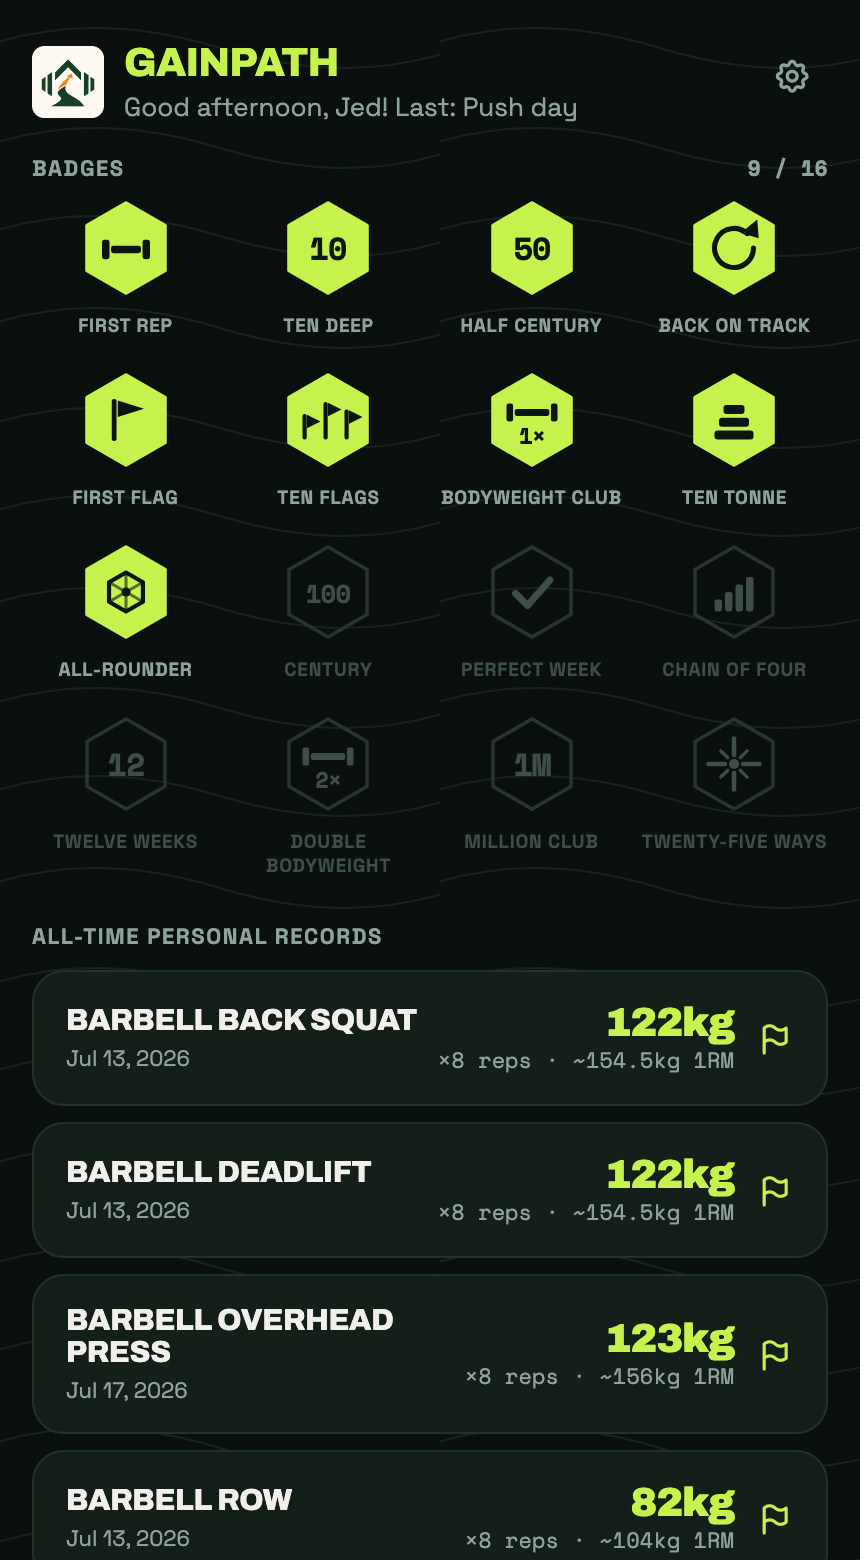
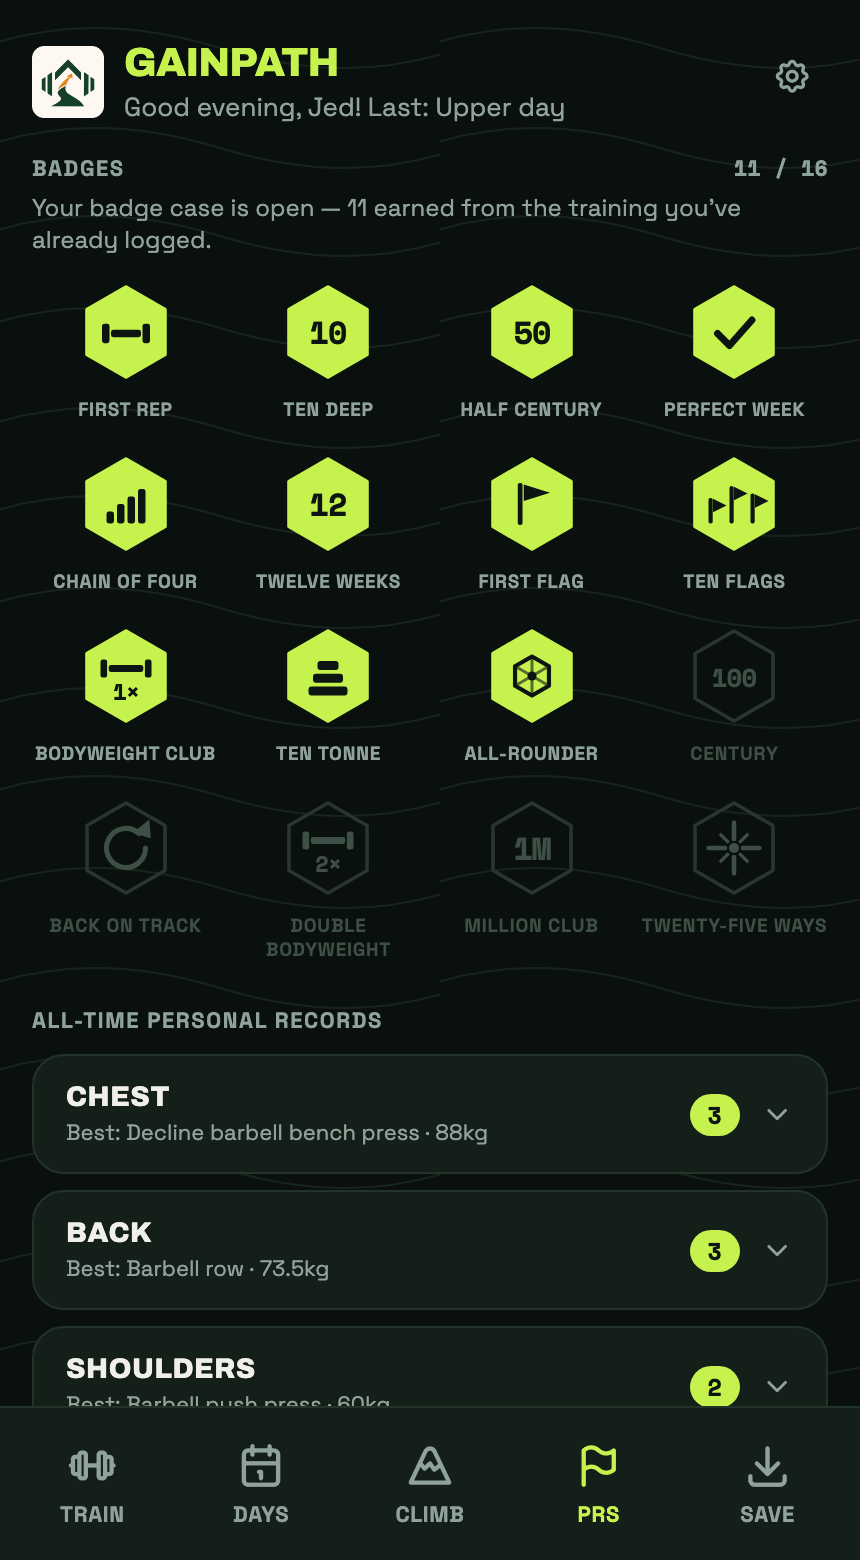
Group the all-time PR list by muscle part (v2.3.0)
The PRs tab rendered every personal record as one flat alphabetical list
of cards. With 221 built-in exercises that list is long enough to be
unreadable — finding a squat PR meant scrolling past every chest lift
first, and the tab ran several screens deep with no structure.

Records are now bucketed by each exercise's `mg` and rendered in
`MG_LIST` order (chest -> back -> shoulders -> arms -> legs -> core),
matching how the rest of the app orders body parts. Each muscle is a
collapsible header showing its record count and heaviest lift, and starts
collapsed, so the whole tab fits on one screen again. Opening a section
renders the same PR cards as before, with the same tap-through to each
record's timeline.

- `renderPRs()`'s per-record card markup is extracted unchanged into a
  new `prCard()` helper — an individual card is pixel-identical to v2.2.0
- Open/closed state lives in `ST.prOpenMG`, so it survives navigating
  away and back within a session
- Records whose muscle group can't be resolved (a deleted custom exercise
  still referenced by history) fall into an "Other" section after the
  known groups, so grouping can never hide a record
- Uses `ti-chevron-down`/`ti-chevron-up`, both already in the self-hosted
  Tabler subset — no re-subsetting needed; verified the glyphs actually
  render rather than trusting the class names
- `CACHE_NAME` -> `gainpath-v30`; `WHATS_NEW_VERSION` -> 2.3.0 with
  rewritten items in all three languages; `badges.png` regenerated to
[…]

diff --git a/index.html b/index.html
@@ -88,6 +88,12 @@ h2,label,.bdg,.streak-hero-lbl,.streak-hero-cta{font-family:inherit;letter-spaci
 .tn,.sv,.wi,.ri,.streak-hero-num,#wo-el,#plate-target,input[type=number]{font-family:var(--font-display);font-weight:600;font-variant-numeric:tabular-nums}
 .pr-stamp{display:flex;align-items:center;gap:8px;background:var(--tint-gold-1);border:1.5px solid var(--brand-forge);border-radius:8px;padding:12px 16px;margin-bottom:8px;font-size:13px;font-weight:700;color:var(--forge-text);transform:rotate(-1.5deg);animation:pr-stamp .18s ease-out}
 .card{background:var(--bg);border:1px solid var(--bdr);border-radius:var(--radius);padding:16px 16px;margin-bottom:10px;box-shadow:var(--shadow-sm)}
+.pr-grp{display:flex;align-items:center;gap:10px;width:100%;background:var(--bg);border:1px solid var(--bdr);border-radius:16px;padding:13px 16px;margin-bottom:8px;cursor:pointer;box-shadow:var(--shadow-sm);transition:border-color .15s}
+.pr-grp:hover,.pr-grp.on{border-color:var(--accent)}
+.pr-grp-t{font-family:var(--font-display);font-size:14px;font-weight:800;text-transform:uppercase;letter-spacing:.02em;color:var(--txt)}
+.pr-grp-s{font-size:11px;color:var(--txt2);margin-top:3px;overflow:hidden;text-overflow:ellipsis;white-space:nowrap}
+.pr-grp-n{font-family:var(--font-mono);font-size:12px;font-weight:700;color:var(--accent-ink);background:var(--accent);border-radius:999px;padding:2px 9px;flex-shrink:0}
+.pr-grp-body{padding-left:10px;border-left:2px solid var(--bdr);margin:0 0 14px 6px}
 .ex-img{display:block;width:100%;height:auto;border-radius:10px;margin-bottom:12px;background:var(--bg2)}
 .cal-wrap{background:var(--bg);border:1px solid var(--bdr);border-radius:var(--radius);padding:12px 16px;box-shadow:var(--shadow-sm)}
 .cal-head{display:flex;align-items:center;justify-content:space-between;margin-bottom:8px}
@@ -1234,7 +1240,7 @@ if(window.emailjs)emailjs.init(EMAILJS_PUBLIC_KEY);
 // Privacy-first, aggregate-only usage analytics — see analytics-worker/README.md.
 // gp_anon_id is a random client-generated ID, never tied to a real identity.
 // Replace with the deployed Worker URL; track() is a no-op until it's set.
-const APP_VERSION='2.2.0';
+const APP_VERSION='2.3.0';
 const ANALYTICS_ENDPOINT='https://gainpath-analytics.jedmangubat.workers.dev';
 function getAnonId(){
   let id=localStorage.getItem('gp_anon_id');
@@ -1261,8 +1267,8 @@ function track(event){
 // on a release that ships user-facing news. A bug-fix-only release leaves it
 // alone, so upgraders correctly see no sheet at all instead of last version's
 // announcement re-headed with the new number. ═══
-const WHATS_NEW_VERSION='2.2.0';
-const WHATS_NEW_ITEMS=['whatsnew_item1','whatsnew_item2','whatsnew_item3'];
+const WHATS_NEW_VERSION='2.3.0';
+const WHATS_NEW_ITEMS=['whatsnew_item1','whatsnew_item2'];
 // -1 / 0 / 1 — segment-wise numeric compare, tolerant of the legacy '0' default.
 function cmpVer(a,b){
   const x=String(a||'0').split('.').map(Number),y=String(b||'0').split('.').map(Number);
@@ -13078,7 +13084,7 @@ let CFG={name:'',firstName:'',lastName:'',lang:'en',sex:'male',bw:75,ht:175,bf:n
   lastSeenVersion:'0',tutorialSeen:false,badgesIntroSeen:false,
   exportedAtHistoryLen:0,backupNudgeDismissedAtLen:0,
   deloadDismissedAtLen:-99};
-let ST={day:null,exi:0,sd:[],rt:null,rs:90,restTotal:90,et:null,es:0,t0:null,paused:false,history:[],prs:{},badges:{},mw:{},chart:null,pendingRec:null,mwQueue:[],mwCurrent:null,fswPending:false,restEnd:null,restInfo:null,rFbHtml:null,rNxHtml:null,editDay:null,editList:[],swapIdx:null,swapPart:null,swapSearch:'',editMid:false,editIncludeCurrent:false,plateIdx:null,bw:[],bwChart:null,feelQueue:[],feelTarget:null,ssGroupEnd:null,editProg:false,progDraft:null,restRated:false,calMonth:null};
+let ST={day:null,exi:0,sd:[],rt:null,rs:90,restTotal:90,et:null,es:0,t0:null,paused:false,history:[],prs:{},badges:{},mw:{},chart:null,pendingRec:null,mwQueue:[],mwCurrent:null,fswPending:false,restEnd:null,restInfo:null,rFbHtml:null,rNxHtml:null,editDay:null,editList:[],swapIdx:null,swapPart:null,swapSearch:'',prOpenMG:{},editMid:false,editIncludeCurrent:false,plateIdx:null,bw:[],bwChart:null,feelQueue:[],feelTarget:null,ssGroupEnd:null,editProg:false,progDraft:null,restRated:false,calMonth:null};
 let HOLD_TIMER=null,HOLD_START=null,HOLD_IDX=null,HOLD_TARGET=null,HOLD_ALERTED=false,DE_EXPANDED=null;
 function startHoldTimerInterval(i){
   HOLD_TIMER=setInterval(()=>{
@@ -13324,9 +13330,8 @@ en:{
 "tut11_body": "Settings is where you tell GainPath which plates/dumbbells you have, connect Apple Watch and send feedback. No account needed, ever.",
 "whatsnew_heading": "What's new in",
 "btn_got_it": "Got it",
-"whatsnew_item1": "102 new exercises, more than doubling the library to 221. Every one comes with its own illustrated three-panel guide, form cues and step-by-step instructions.",
-"whatsnew_item2": "They're all in the substitution pool, so when you swap an exercise you now get far more options that actually train the same muscle.",
-"whatsnew_item3": "New ground covered too — glutes, calves, abductors and core got the biggest additions, including bodyweight and machine alternatives for when the gym is busy.",
+"whatsnew_item1": "Your all-time personal records are now grouped by muscle instead of one long alphabetical list. Each section shows how many records you hold there and your heaviest lift for that muscle.",
+"whatsnew_item2": "Tap a muscle to open it and see every record underneath. Sections start closed, so the whole PRs tab fits on one screen again.",
 "message_label": "Message",
 "metric_e1rm": "Estimated 1RM",
 "metric_max_weight": "Max weight",
@@ -13399,6 +13404,7 @@ en:{
 "plate_calc_title": "Plate calculator",
 "plates_owned_label": "Plates owned (<span id=\"set-gym-unit1\">kg</span>, per pair)",
 "pr_alltime_title": "All-time personal records",
+"pr_group_top": "Best:",
 "badges_title": "Badges",
 "badges_intro": "Your badge case is open — {n} earned from the training you've already logged.",
 "badge_unlocked": "Badge unlocked",
@@ -13683,9 +13689,8 @@ ja:{
 "tut11_body": "設定では持っているプレートやダンベルの登録、Apple Watch連携、フィードバック送信ができます。アカウントは一切不要です。",
 "whatsnew_heading": "アップデート情報",
 "btn_got_it": "了解",
-"whatsnew_item1": "102種目の新エクササイズを追加し、ライブラリは221種目に倍増しました。すべてに3コマのイラスト解説、フォームのコツ、手順が付いています。",
-"whatsnew_item2": "いずれも種目変更の候補に入るので、入れ替えるときに同じ筋肉を鍛えられる選択肢が大幅に増えました。",
-"whatsnew_item3": "対象部位も拡充 —— 特にお尻・ふくらはぎ・股関節・体幹が充実し、ジムが混雑しているときの自重・マシン代替種目も加わりました。",
+"whatsnew_item1": "歴代の自己記録が、長いアルファベット順の一覧ではなく部位ごとにまとまりました。各セクションには記録数とその部位の最高重量が表示されます。",
+"whatsnew_item2": "部位をタップすると、その中のすべての記録が開きます。初期状態は閉じているので、自己記録タブが再び1画面に収まります。",
 "message_label": "メッセージ",
 "metric_e1rm": "推定1RM",
 "metric_max_weight": "最大重量",
@@ -13758,6 +13763,7 @@ ja:{
 "plate_calc_title": "プレート計算機",
 "plates_owned_label": "所有プレート (<span id=\"set-gym-unit1\">kg</span>、1組あたり)",
 "pr_alltime_title": "歴代の自己記録",
+"pr_group_top": "最高:",
 "badges_title": "バッジ",
 "badges_intro": "バッジコレクションを開きました — これまでの記録から{n}個を獲得しています。",
 "badge_unlocked": "バッジ獲得",
@@ -14043,9 +14049,8 @@ ko:{
 "tut11_body": "설정에서 보유한 플레이트/덤벨 등록, Apple Watch 연동, 피드백 보내기가 가능합니다. 계정은 절대 필요하지 않습니다.",
 "whatsnew_heading": "업데이트 소식",
 "btn_got_it": "확인",
-"whatsnew_item1": "새로운 운동 102가지를 추가해 라이브러리가 221가지로 두 배 넘게 늘었습니다. 모두 3컷 일러스트 가이드와 자세 팁, 단계별 설명이 함께 제공됩니다.",
-"whatsnew_item2": "전부 대체 운동 목록에 포함되어, 운동을 교체할 때 같은 근육을 쓰는 선택지가 훨씬 많아졌습니다.",
-"whatsnew_item3": "부위도 넓어졌습니다 — 특히 엉덩이·종아리·고관절·코어가 크게 보강되었고, 헬스장이 붐빌 때 쓸 맨몸·머신 대체 운동도 추가했습니다.",
+"whatsnew_item1": "역대 개인 기록이 긴 알파벳순 목록 대신 부위별로 묶였습니다. 각 섹션에 보유한 기록 수와 그 부위의 최고 중량이 표시됩니다.",
+"whatsnew_item2": "부위를 누르면 그 안의 모든 기록이 펼쳐집니다. 기본은 접힌 상태라 개인 기록 탭이 다시 한 화면에 들어옵니다.",
 "message_label": "메시지",
 "metric_e1rm": "추정 1RM",
 "metric_max_weight": "최대 무게",
@@ -14118,6 +14123,7 @@ ko:{
 "plate_calc_title": "플레이트 계산기",
 "plates_owned_label": "보유한 플레이트 (<span id=\"set-gym-unit1\">kg</span>, 한 쌍 기준)",
 "pr_alltime_title": "역대 개인 기록",
+"pr_group_top": "최고:",
 "badges_title": "배지",
 "badges_intro": "배지 보관함이 열렸습니다 — 지금까지의 기록으로 {n}개를 획득했습니다.",
 "badge_unlocked": "배지 획득",
@@ -16120,7 +16126,9 @@ function drawChart(){
   const pointColor=isWaypoint.map((wp,i)=>i>0&&wp?theme.forge:theme.accent);
   ST.chart=new Chart(canvas,{type:'line',data:{datasets:[{label,data:pts.map(p=>({x:p.day,y:p.w})),borderColor:theme.accent,backgroundColor:theme.fill,tension:.35,pointBackgroundColor:pointColor,pointBorderColor:theme.bg,pointBorderWidth:2,pointRadius,pointHoverRadius:pointRadius.map(r=>r+2),borderWidth:2.5,fill:true}]},options:{responsive:true,plugins:{legend:{display:false},tooltip:{callbacks:{title:c=>dayLabel(c[0].parsed.x,true),label:c=>c.parsed.y+' '+CFG.unit+(isWaypoint[c.dataIndex]&&c.dataIndex>0?' — waypoint':'')}}},scales:{y:{beginAtZero:false,grid:{color:theme.grid},ticks:{color:theme.tick,callback:v=>(Math.round(v*10)/10)+CFG.unit,font:{size:11}}},x:timeAxis(pts.map(p=>p.day),theme.tick)}}});
 }
-function renderPRs(){const el=gid('pr-list'),keys=Object.keys(ST.prs);if(!keys.length){el.innerHTML='<div style="text-align:center;padding:2.5rem 1rem;font-size:13px;color:var(--txt2)">No PRs yet!</div>';return;}el.innerHTML=keys.sort().map(k=>{const pr=ST.prs[k];const ex=EXPOOL[k];const isBW=ex&&ex.note==='bodyweight';const sub='×'+(ex&&ex.holdSecs?fmt(pr.r)+' held':pr.r+' reps')+(pr.w>0&&!(ex&&ex.holdSecs)?' · ~'+e1rm(pr.w,pr.r)+CFG.unit+' 1RM':'');return'<div class="card" onclick="showPRHistory('+jsArg(k)+')" style="cursor:pointer;display:flex;justify-content:space-between;align-items:center;gap:10px;padding:14px 16px;margin-bottom:8px;border-radius:16px"><div style="min-width:0"><div style="font-family:var(--font-display);font-size:15px;font-weight:800;text-transform:uppercase;letter-spacing:-.01em;color:var(--txt)">'+esc(k)+'</div><div style="font-size:11px;color:var(--txt2);margin-top:4px">'+esc(pr.date)+'</div></div><div style="display:flex;align-items:center;gap:11px;flex-shrink:0"><div style="text-align:right"><div style="font-family:var(--font-display);font-size:20px;font-weight:900;letter-spacing:-.02em;color:var(--accent)">'+(isBW?bwWeightLabel(pr.w):pr.w+CFG.unit)+'</div><div style="font-size:11px;color:var(--txt2);font-family:var(--font-mono)">'+sub+'</div></div><i class="ti ti-flag" style="color:var(--accent);font-size:19px" aria-hidden="true"></i></div></div>';}).join('');}
+function prCard(k){const pr=ST.prs[k];const ex=EXPOOL[k];const isBW=ex&&ex.note==='bodyweight';const sub='×'+(ex&&ex.holdSecs?fmt(pr.r)+' held':pr.r+' reps')+(pr.w>0&&!(ex&&ex.holdSecs)?' · ~'+e1rm(pr.w,pr.r)+CFG.unit+' 1RM':'');return'<div class="card" onclick="showPRHistory('+jsArg(k)+')" style="cursor:pointer;display:flex;justify-content:space-between;align-items:center;gap:10px;padding:14px 16px;margin-bottom:8px;border-radius:16px"><div style="min-width:0"><div style="font-family:var(--font-display);font-size:15px;font-weight:800;text-transform:uppercase;letter-spacing:-.01em;color:var(--txt)">'+esc(k)+'</div><div style="font-size:11px;color:var(--txt2);margin-top:4px">'+esc(pr.date)+'</div></div><div style="display:flex;align-items:center;gap:11px;flex-shrink:0"><div style="text-align:right"><div style="font-family:var(--font-display);font-size:20px;font-weight:900;letter-spacing:-.02em;color:var(--accent)">'+(isBW?bwWeightLabel(pr.w):pr.w+CFG.unit)+'</div><div style="font-size:11px;color:var(--txt2);font-family:var(--font-mono)">'+sub+'</div></div><i class="ti ti-flag" style="color:var(--accent);font-size:19px" aria-hidden="true"></i></div></div>';}
+function togglePRGroup(mg){ST.prOpenMG[mg]=!ST.prOpenMG[mg];renderPRs();}
+function renderPRs(){const el=gid('pr-list'),keys=Object.keys(ST.prs);if(!keys.length){el.innerHTML='<div style="text-align:center;padding:2.5rem 1rem;font-size:13px;color:var(--txt2)">No PRs yet!</div>';return;}const grp={};keys.sort().forEach(k=>{const ex=EXPOOL[k];const mg=(ex&&ex.mg)||'other';(grp[mg]=grp[mg]||[]).push(k);});const order=MG_LIST.filter(mg=>grp[mg]).concat(Object.keys(grp).filter(mg=>MG_LIST.indexOf(mg)<0).sort());el.innerHTML=order.map(mg=>{const list=grp[mg],open=!!ST.prOpenMG[mg];const top=list.reduce((a,b)=>{const x=ST.prs[a],y=ST.prs[b];return(y.w>x.w||(y.w===x.w&&y.r>x.r))?b:a;});const tex=EXPOOL[top],tw=(tex&&tex.note==='bodyweight')?bwWeightLabel(ST.prs[top].w):ST.prs[top].w+CFG.unit;return'<div class="pr-grp'+(open?' on':'')+'" onclick="togglePRGroup('+jsArg(mg)+')" role="button" tabindex="0" aria-expanded="'+open+'">'+'<div style="min-width:0;flex:1"><div class="pr-grp-t">'+esc(humanizeMG(mg))+'</div>'+'<div class="pr-grp-s">'+t('pr_group_top')+' '+esc(top)+' · '+tw+'</div></div>'+'<span class="pr-grp-n">'+list.length+'</span>'+'<i class="ti ti-chevron-'+(open?'up':'down')+'" aria-hidden="true" style="color:var(--txt2);font-size:17px;flex-shrink:0"></i></div>'+(open?'<div class="pr-grp-body">'+list.map(prCard).join('')+'</div>':'');}).join('');}
 function prHistoryFor(name){
   const meta=EXPOOL[name];const events=[];let best=null;
   ST.history.forEach(h=>{

diff --git a/sw.js b/sw.js
@@ -1,7 +1,7 @@
 // GainPath service worker — app-shell caching only. Bump CACHE_NAME whenever
 // SHELL_URLS/CDN_URLS or the caching logic below changes; activate() deletes
 // any cache not matching the current name.
-const CACHE_NAME = 'gainpath-v29';
+const CACHE_NAME = 'gainpath-v30';
 const CDN_URLS = [
   'https://cdnjs.cloudflare.com/ajax/libs/Chart.js/4.4.1/chart.umd.min.js',
   'https://cdnjs.cloudflare.com/ajax/libs/jspdf/2.5.1/jspdf.umd.min.js',

diff --git a/README.md b/README.md
@@ -8,13 +8,12 @@ GainPath is free, ad-free, and has no subscriptions. If it's been useful to you,
 
 ---
 
-## ✨ What's new in v2.2.0
+## ✨ What's new in v2.3.0
 
-**102 new exercises — the library more than doubles, from 119 to 221.** Every one arrives complete: its own illustrated three-panel guide, six form cues for the rest screen, and step-by-step instructions, all in English, Japanese and Korean.
+**Your all-time personal records are now grouped by muscle.** The PRs tab used to be one long alphabetical list — with a couple of hundred exercises to choose from, that got unreadable fast.
 
-- **Far better swaps.** All 102 land in the substitution pool, so when you swap an exercise you get real alternatives that train the same muscle rather than a thin list.
-- **The gaps got filled.** Glutes, calves, abductors and core gained the most, and there are now bodyweight and machine alternatives for most barbell lifts — useful when the rack is taken or you're training at home.
-- **Nothing else changed.** Your program, history, PRs and badges are untouched; there's simply more to choose from.
+- **One section per muscle**, in training order (chest, back, shoulders, arms, then legs and core) rather than A-to-Z. Each header shows how many records you hold for that muscle and your heaviest lift in it, so you can read the whole tab at a glance.
+- **Sections start closed**, so the full list fits on one screen. Tap a muscle to open it and every record underneath appears exactly as before — tap any one for its full timeline.
 
 ## Features
 
@@ -43,6 +42,8 @@ Picking a day no longer locks you into a fixed exercise list — tap a day to op
 - Confirms before advancing past an exercise with sets still left undone, in case "Next exercise" or "Finish workout" gets tapped by mistake
 - **Supersets & circuits** — link an exercise with the next one in the editor to pair them (2 linked = superset, 3+ = circuit). During the workout you alternate one set of each back-to-back with no rest, resting once per round. Each exercise still tracks its own feel rating, volume, and PRs
 - **Drop sets** — a "+ Drop" button on any set marks it done and adds a lighter set (70% of the weight) so you can push past failure; it counts toward volume and PRs like any work set
+- **A 221-exercise built-in library.** Every exercise ships complete — an illustrated three-panel guide, six form cues for the rest screen, and step-by-step instructions, all in English, Japanese and Korean. Glutes, calves, abductors and core are covered as thoroughly as the big lifts, and most barbell movements have a bodyweight or machine alternative for when the rack is taken or you're training at home
+- **Substitutions that are actually useful** — the whole library is in the swap pool, so swapping an exercise offers real alternatives that train the same muscle rather than a thin list
 - **Custom exercises** — for a machine or movement not in the built-in database, add your own (name, muscle group, equipment) from the swap/add-exercise picker. No bundled photo is required — the exercise card falls back to a YouTube search link instead. Fully deletable, and everything (PRs, charts, history, suggestions, export/import) picks it up automatically
 
 ### 🧱 Build your own program
@@ -121,7 +122,7 @@ line), with the current set highlighted so you always know where you are.
 - Progress chart anchored to one bellwether lift per body part (chest → flat barbell bench press, back → barbell row, quads → barbell back squat, shoulders → barbell overhead press) — plot **estimated 1RM** (default), **max weight**, or **session volume** over time for that lift
 - Per-exercise session history — pick any exercise to see every past date logged for it, with the sets you logged, that session's volume and best estimated 1RM, and how it felt
 - **Notes that remember for you** — jot a note on any exercise mid-workout ("seat position 4", "left shoulder pinch") or on the whole session; next time you land on that exercise, GainPath reminds you what you wrote
-- Personal record (PR) tracker — auto-detects new PRs, celebrates on screen, and shows each PR's estimated 1RM; tap any PR to see the full timeline of every time that record was broken, not just the current best
+- Personal record (PR) tracker — auto-detects new PRs, celebrates on screen, and shows each PR's estimated 1RM; tap any PR to see the full timeline of every time that record was broken, not just the current best. The all-time list is **grouped by muscle** into collapsible sections, each headed with its record count and your heaviest lift for that muscle
 - **Weekly muscle-group volume balance** — hard sets per muscle group this week, sorted as horizontal bars, with a flag when a mirror-muscle pair (chest/back, quads/hamstrings, biceps/triceps) looks lopsided
 - Total training volume (tonnage) on every session summary and in history
 - **Body weight & measurements** — log weigh-ins (with optional waist/arms) and see your weight trend on a chart, right in the Progress tab
@@ -133,7 +134,7 @@ line), with the current set highlighted so you always know where you are.
 - **Shareable session card** — after "Session done!", share a designed summary card (day, duration, volume, PRs) via your phone's share sheet, or long-press to save it
 - **Achievement badges** — sixteen milestones covering showing up (First Rep, Ten Deep, Half Century, Century, Perfect Week), staying with it (Chain of Four, Twelve Weeks, Back on Track), getting stronger (First Flag, Ten Flags, Bodyweight Club, Double Bodyweight), putting in work (Ten Tonne, Million Club), and covering ground (All-Rounder, Twenty-Five Ways). They're worked out from training you've already logged and stamped with the date you actually earned them, so your case doesn't start empty. Find them on the PRs tab above your all-time records — earned in lime, locked in grey, tap any for its condition — and unlocks land on your session summary and shared card
 
-<img src="images/screenshots/badges.png" width="260" alt="PRs tab — the badge case, with earned badges in lime and locked ones greyed out, above the all-time personal records list">
+<img src="images/screenshots/badges.png" width="260" alt="PRs tab — the badge case, with earned badges in lime and locked ones greyed out, above the all-time personal records grouped into collapsible sections by muscle">
 
 ### 📄 Monthly PDF report
 

diff --git a/CHANGELOG.md b/CHANGELOG.md
@@ -6,6 +6,36 @@ The format is based on [Keep a Changelog](https://keepachangelog.com/en/1.1.0/).
 
 ## [Unreleased]
 
+## [2.3.0] - 2026-08-19
+
+### Changed
+- **The all-time personal-record list on the PRs tab is now grouped by muscle
+  part instead of being one flat alphabetical list.** With 221 built-in
+  exercises a well-used account can hold dozens of PRs, and a single A-to-Z
+  run of cards was unreadable — you had to scroll past every chest lift to
+  find a squat. Records are now bucketed by each exercise's `mg` and rendered
+  in `MG_LIST` order (chest → back → shoulders → arms → legs → core), which
+  matches how the rest of the app orders body parts, rather than
+  alphabetically.
+- Each muscle section is a collapsible header showing the number of records
+  held for that muscle and its heaviest lift, and **starts collapsed**, so the
+  whole tab fits on one screen. Opening a section renders exactly the same PR
+  cards as before, with the same tap-through to each record's timeline.
+  Open/closed state lives in `ST.prOpenMG` and survives navigating away and
+  back within a session.
+- Exercises whose muscle group can't be resolved (a deleted custom exercise
+  still referenced by a historical PR) fall into an "Other" section listed
+  after the known groups, so no record can be hidden by the grouping.
+
+### Notes
+- `renderPRs()`'s per-record card markup was extracted unchanged into a new
+  `prCard()` helper; the visual design of an individual PR card is identical
+  to v2.2.0.
+- Uses `ti-chevron-down`/`ti-chevron-up`, both already present in the
+  self-hosted Tabler subset — no re-subsetting was needed. Verified the glyphs
+  actually render (17px measured width) rather than trusting the class names.
+- `CACHE_NAME` bumped to `gainpath-v30` for the changed app shell.
+
 ## [2.2.0] - 2026-08-19
 
 ### Added
